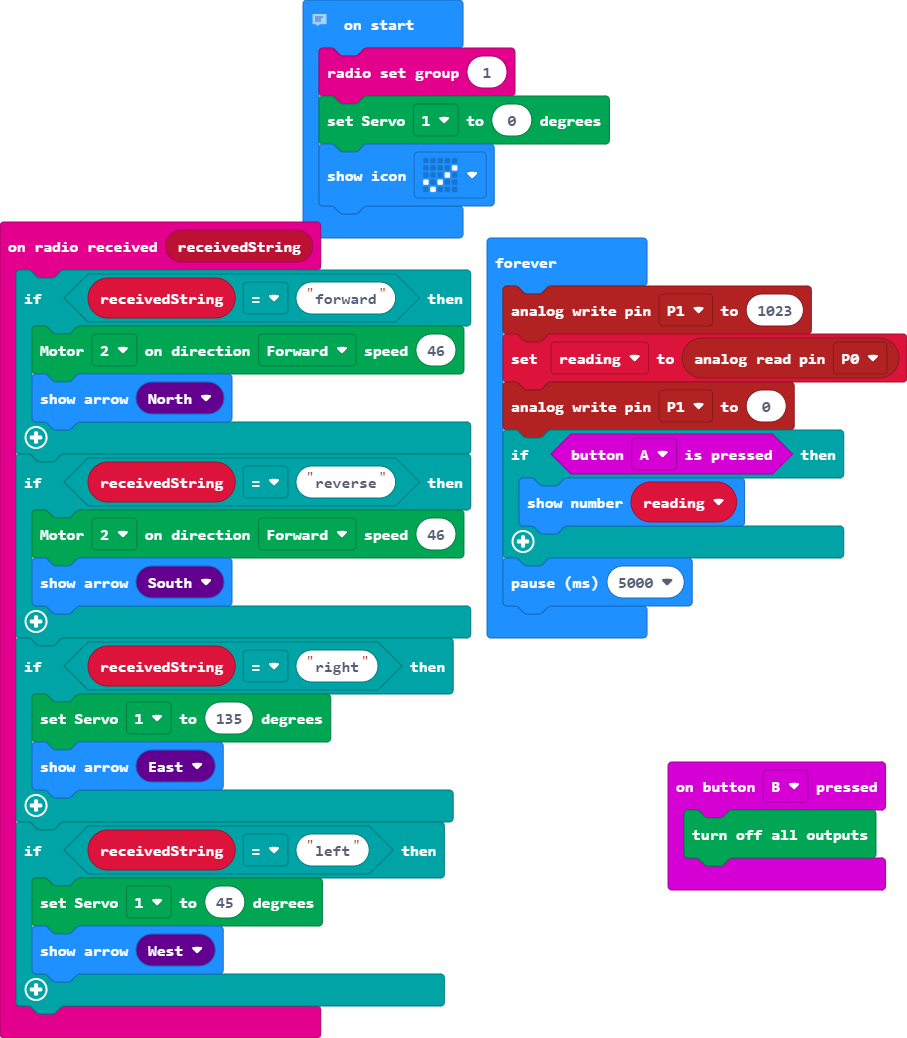
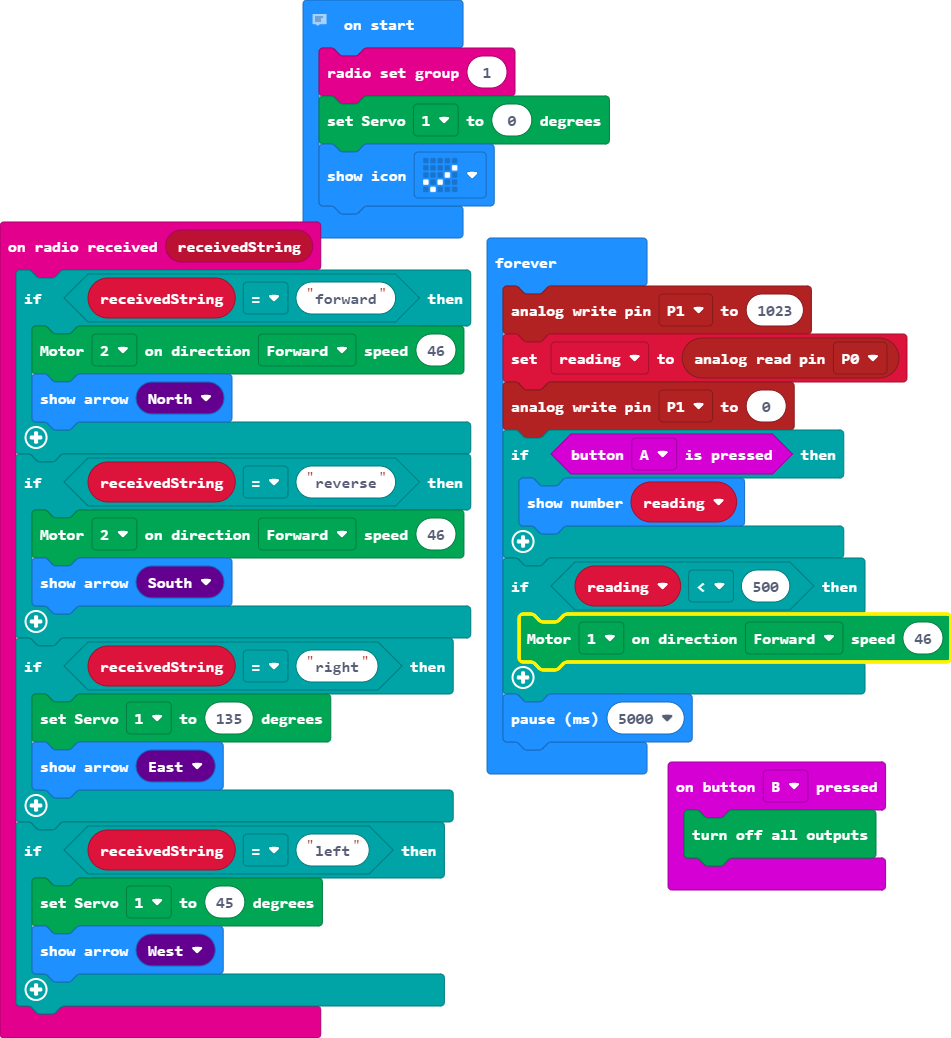
Update main.blocks, main.ts

diff --git a/main.ts b/main.ts
@@ -31,5 +31,8 @@ basic.forever(function () {
     if (input.buttonIsPressed(Button.A)) {
         basic.showNumber(reading)
     }
+    if (reading < 500) {
+        Kitronik_Robotics_Board.motorOn(Kitronik_Robotics_Board.Motors.Motor1, Kitronik_Robotics_Board.MotorDirection.Forward, 46)
+    }
     basic.pause(5000)
 })
